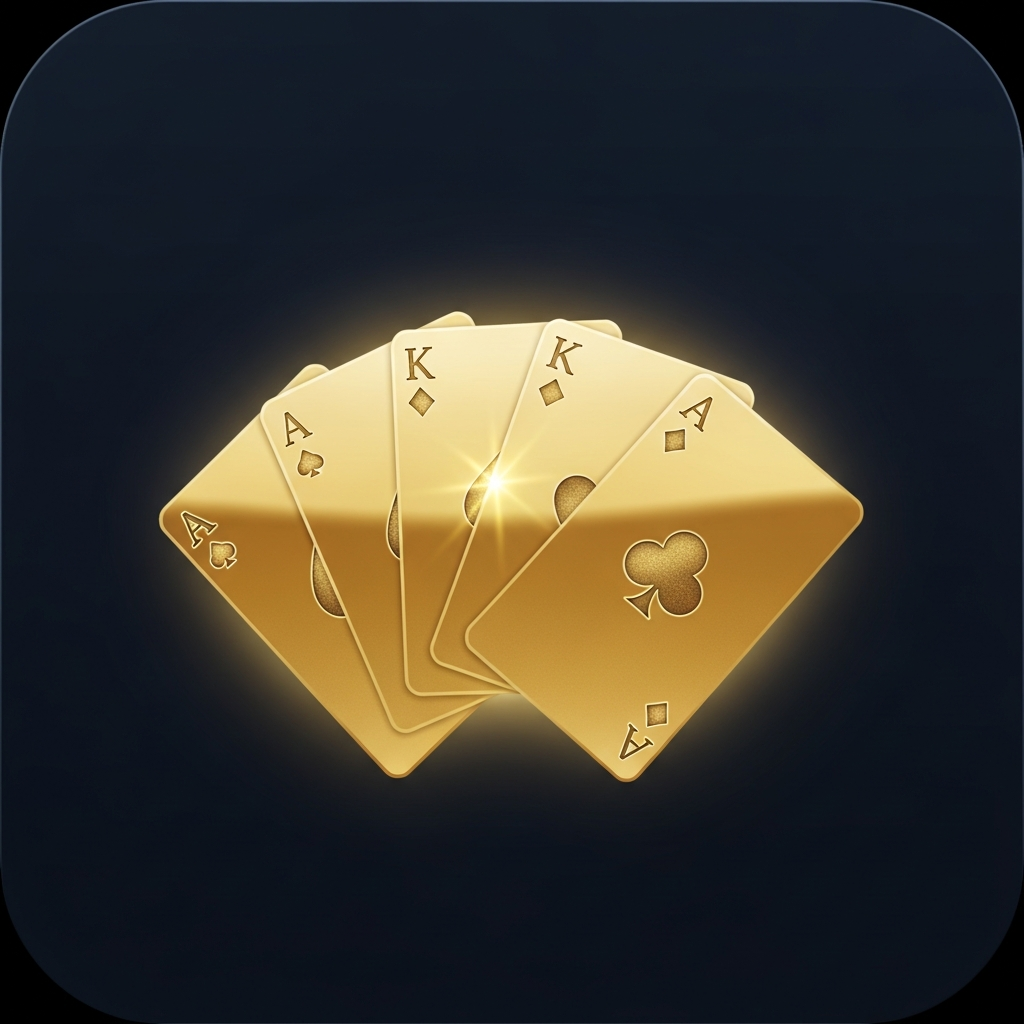
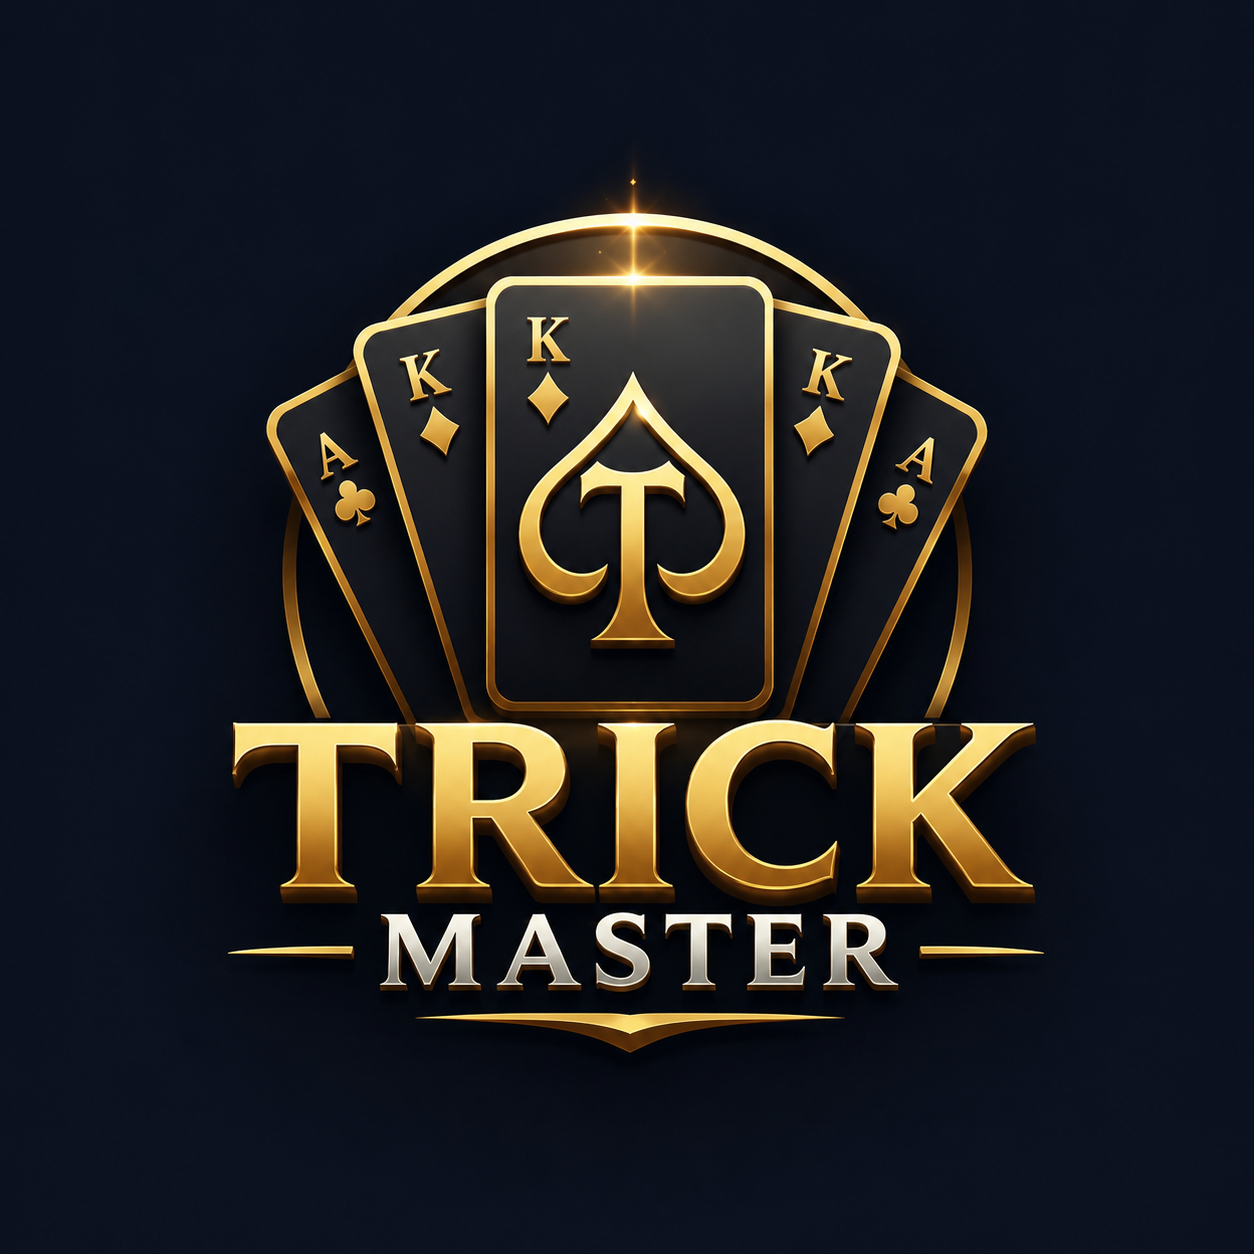
update app for appstore

diff --git a/app/(home)/game/[id].tsx b/app/(home)/game/[id].tsx
@@ -29,6 +29,7 @@ import { useGameVoice } from "@/hooks/useGameVoice";
 import { useVoiceSettings } from "@/lib/voiceHelper";
 import { apiFetch, ApiError } from "@/lib/api";
 import { sortHand, phaseLabel } from "@/lib/gameLogic";
+import { useKeepAwake } from "expo-keep-awake";
 import type { GameState, Room, RoomPlayer } from "@/types/game";
 
 function HandCards({
@@ -163,6 +164,7 @@ function FloatingEmoji({ char, delay, startX }: AnimatedEmojiProps) {
 }
 
 export default function GameScreen() {
+  useKeepAwake();
   const { id } = useLocalSearchParams<{ id: string }>();
   const router = useRouter();
   const navigation = useNavigation();
@@ -943,28 +945,34 @@ Haptics.impactAsync(Haptics.ImpactFeedbackStyle.Light);
                   <Text style={styles.scoreModalHeaderCell}>Seat</Text>
                   <Text style={[styles.scoreModalHeaderCell, { textAlign: "right" }]}>Score</Text>
                 </View>
-                {players.map((p) => {
-                  const score = gameState.scores[p.clerk_user_id] ?? 0;
-                  const isMe = p.clerk_user_id === myUserId;
-                  return (
-                    <View key={p.id} style={[styles.scoreModalRow, isMe && styles.scoreModalRowMe]}>
-                      <View style={{ flex: 2, flexDirection: "row", alignItems: "center", gap: 6 }}>
-                        {p.avatar_url ? (
-                          <Image source={{ uri: p.avatar_url }} style={styles.scoreModalAvatar} />
-                        ) : (
-                          <View style={styles.scoreModalAvatarPlaceholder}>
-                            <Text style={styles.scoreModalAvatarText}>{p.username.charAt(0).toUpperCase()}</Text>
-                          </View>
-                        )}
-                        <Text style={[styles.scoreModalCellText, { textAlign: "left" }, isMe && { fontWeight: "700", color: colors.light.gold }]} numberOfLines={1}>
-                          {isMe ? "You" : p.username}
-                        </Text>
+                {[...players]
+                  .sort((a, b) => {
+                    const scoreA = gameState.scores[a.clerk_user_id] ?? 0;
+                    const scoreB = gameState.scores[b.clerk_user_id] ?? 0;
+                    return scoreB - scoreA;
+                  })
+                  .map((p) => {
+                    const score = gameState.scores[p.clerk_user_id] ?? 0;
+                    const isMe = p.clerk_user_id === myUserId;
+                    return (
+                      <View key={p.id} style={[styles.scoreModalRow, isMe && styles.scoreModalRowMe]}>
+                        <View style={{ flex: 2, flexDirection: "row", alignItems: "center", gap: 6 }}>
+                          {p.avatar_url ? (
+                            <Image source={{ uri: p.avatar_url }} style={styles.scoreModalAvatar} />
+                          ) : (
+                            <View style={styles.scoreModalAvatarPlaceholder}>
+                              <Text style={styles.scoreModalAvatarText}>{p.username.charAt(0).toUpperCase()}</Text>
+                            </View>
+                          )}
+                          <Text style={[styles.scoreModalCellText, { textAlign: "left" }, isMe && { fontWeight: "700", color: colors.light.gold }]} numberOfLines={1}>
+                            {isMe ? "You" : p.username}
+                          </Text>
+                        </View>
+                        <Text style={styles.scoreModalCellText}>{p.seat_order}</Text>
+                        <Text style={[styles.scoreModalCellText, { fontWeight: "700", color: colors.light.gold, textAlign: "right" }]}>{score} pts</Text>
                       </View>
-                      <Text style={styles.scoreModalCellText}>{p.seat_order}</Text>
-                      <Text style={[styles.scoreModalCellText, { fontWeight: "700", color: colors.light.gold, textAlign: "right" }]}>{score} pts</Text>
-                    </View>
-                  );
-                })}
+                    );
+                  })}
               </View>
 
               <Pressable

diff --git a/app/(auth)/sign-in.tsx b/app/(auth)/sign-in.tsx
@@ -290,7 +290,7 @@ export default function SignInScreen() {
           <Ionicons name="diamond" size={36} color={colors.light.gold} />
         </View>
 
-        <Text style={styles.appName}>TrickMaster</Text>
+        <Text style={styles.appName}>Trick Master</Text>
         <Text style={styles.title}>Welcome back</Text>
         <Text style={styles.subtitle}>Sign in to continue playing</Text>
 

diff --git a/app/(auth)/sign-up.tsx b/app/(auth)/sign-up.tsx
@@ -235,7 +235,7 @@ export default function SignUpScreen() {
           <Ionicons name="diamond" size={36} color={colors.light.gold} />
         </View>
 
-        <Text style={styles.appName}>TrickMaster</Text>
+        <Text style={styles.appName}>Trick Master</Text>
         <Text style={styles.title}>Create your account</Text>
         <Text style={styles.subtitle}>Join the table and start playing</Text>
 

diff --git a/README.md b/README.md
@@ -1,4 +1,4 @@
-# TrickMaster
+# Trick Master
 
 A multiplayer trick-taking card game built as a React Native (Expo) mobile app with a Node.js + MongoDB backend.
 